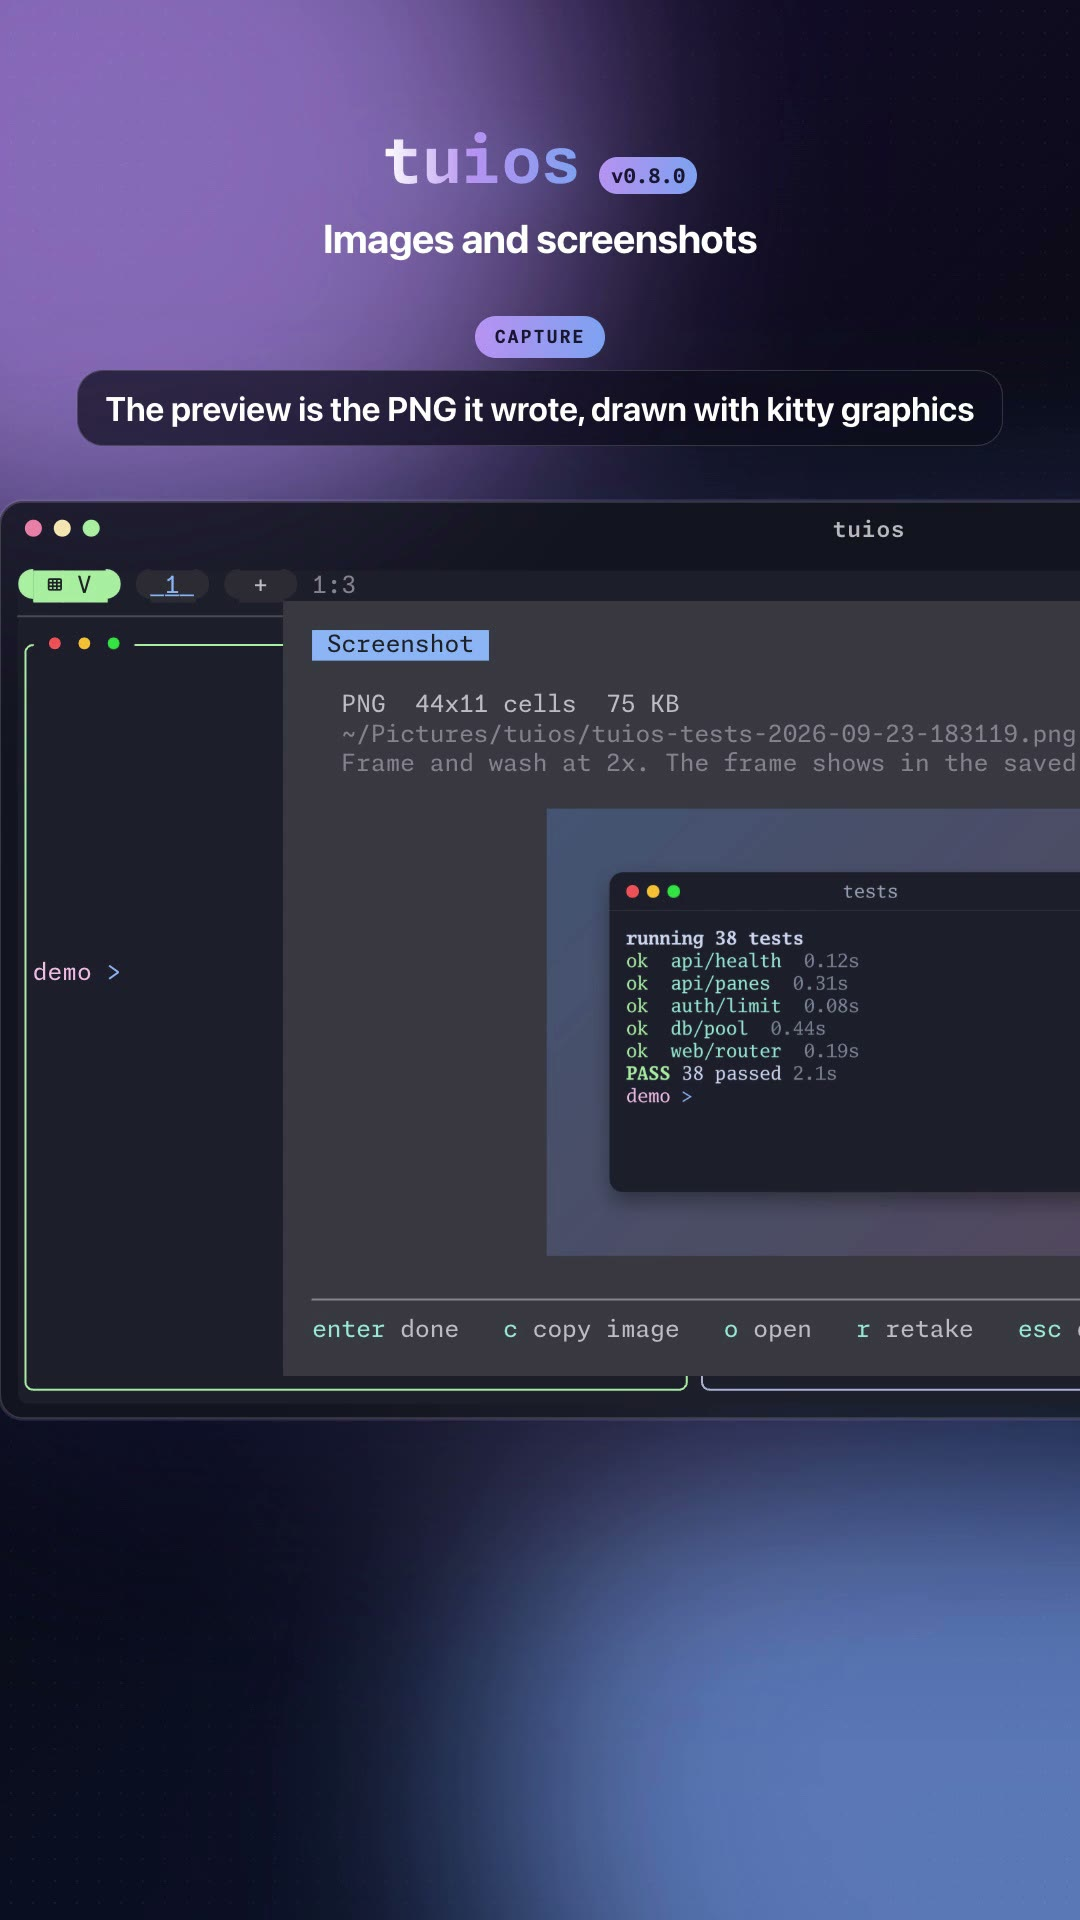
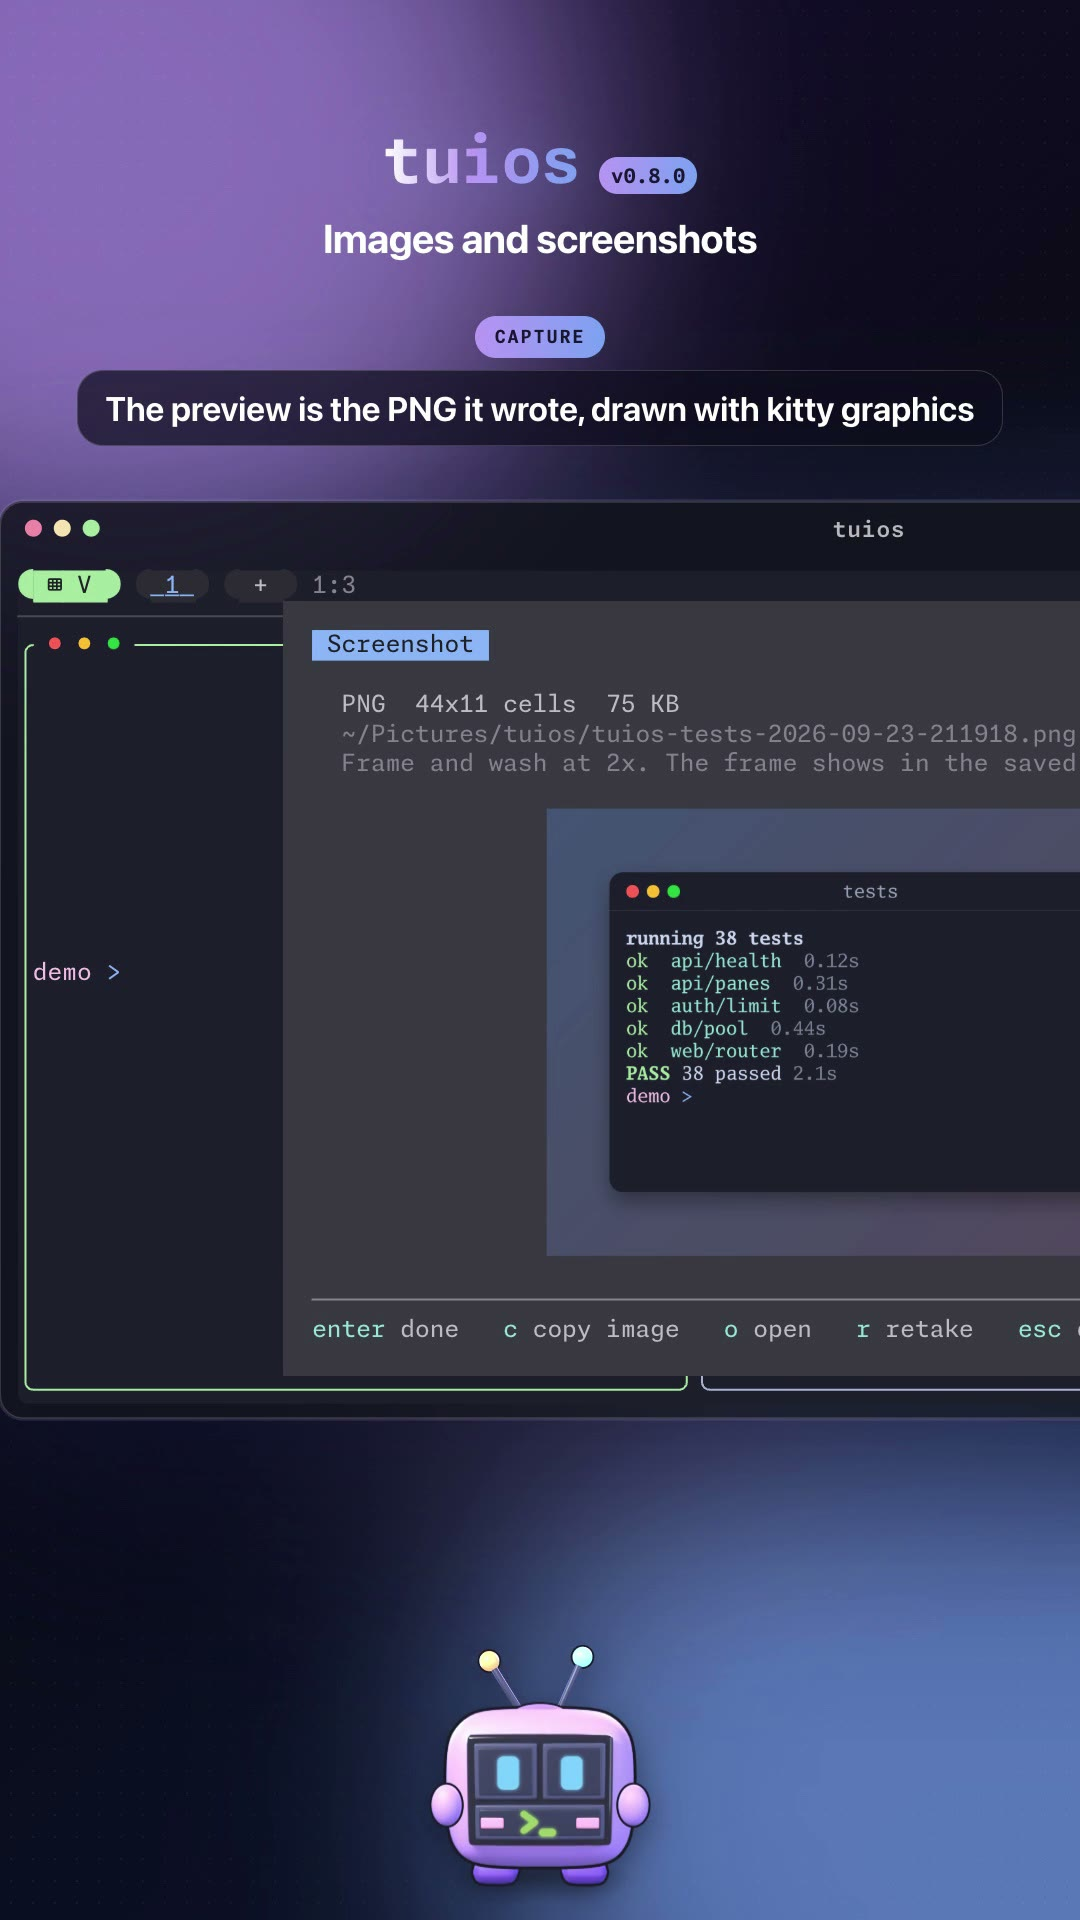
feat(releases): narrate the v0.8.0 clips with Tilly
Every v0.8.0 clip now has a voiceover by Tilly, the tuios mascot, who walks
in, points at the part of the screen each step is about, and talks with a
cursor mouth driven by the voice. The pauses in each take were lengthened
to fit the lines; tuios does the same things on screen. The voice is
Qwen3-TTS 1.7B, one designed reference cloned for every line, rendered and
checked locally, and mixed to -16 LUFS (AAC in the MP4s, Opus in the WebM).

ReleaseClip still autoplays muted, since browsers only allow that. A sound
button turns the narration on and starts the clip, and each clip has a
captions track (<clip>.vtt) with the spoken lines.

Changed region(s): [[0.3972, 0.8438, 0.6111, 1.0], [0.8556, 0.375, 0.9167, 0.4062]]

diff --git a/components/mdx/release-clip.tsx b/components/mdx/release-clip.tsx
@@ -1,6 +1,6 @@
 "use client";
 
-import { Pause, Play } from "lucide-react";
+import { Pause, Play, Volume2, VolumeX } from "lucide-react";
 import { useEffect, useId, useRef, useState } from "react";
 import { cn } from "@/lib/cn";
 
@@ -16,6 +16,9 @@ const NARROW = "(max-width: 639px)";
  *   is close to the viewport (preload none, sources attached on intersection).
  * - In view it plays muted and loops, like a GIF. Out of view it pauses, so a
  *   page of clips decodes one or two at a time.
+ * - The clips are narrated. The sound button turns the voice on (and starts
+ *   the clip); browsers only autoplay muted video, so it starts off. The
+ *   narration's captions are `src.vtt`, a track the reader can turn on.
  * - With prefers-reduced-motion it never starts by itself. The button starts
  *   it, and the button pauses it in every case, because moving content longer
  *   than five seconds needs a way to stop it.
@@ -46,7 +49,14 @@ export function ReleaseClip({
   const [reduced, setReduced] = useState(false);
   const [visible, setVisible] = useState(false);
   const [narrow, setNarrow] = useState(false);
+  const [sound, setSound] = useState(false);
   const stepsId = useId();
+
+  // React sets the muted attribute only on mount, so follow the state by hand.
+  useEffect(() => {
+    const video = videoRef.current;
+    if (video) video.muted = !sound;
+  }, [sound]);
 
   useEffect(() => {
     const query = window.matchMedia("(prefers-reduced-motion: reduce)");
@@ -129,6 +139,12 @@ export function ReleaseClip({
     setWanted(video.paused);
   };
 
+  const toggleSound = () => {
+    setNear(true);
+    if (!sound) setWanted(true);
+    setSound(!sound);
+  };
+
   return (
     <figure className="not-prose my-8">
       <div className="group relative overflow-hidden rounded-xl border border-fd-border bg-[#11111b] shadow-lg shadow-fd-primary/5">
@@ -153,6 +169,14 @@ export function ReleaseClip({
           {near && narrow ? (
             <source src={`${src}-vertical.mp4`} type="video/mp4" />
           ) : null}
+          {near ? (
+            <track
+              kind="captions"
+              src={`${src}.vtt`}
+              srcLang="en"
+              label="English"
+            />
+          ) : null}
           {near && !narrow ? (
             <>
               <source src={`${src}.webm`} type="video/webm" />
@@ -160,6 +184,26 @@ export function ReleaseClip({
             </>
           ) : null}
         </video>
+        <button
+          type="button"
+          onClick={toggleSound}
+          aria-label={`Narration sound: ${label}`}
+          aria-pressed={sound}
+          className={cn(
+            "absolute right-14 bottom-3 inline-flex size-9 items-center justify-center rounded-full",
+            "border border-white/15 bg-black/60 text-white backdrop-blur-sm transition-opacity",
+            "hover:bg-black/80 focus-visible:opacity-100 focus-visible:outline-2 focus-visible:outline-fd-primary focus-visible:outline-offset-2",
+            playing && !sound
+              ? "opacity-60 group-hover:opacity-100"
+              : "opacity-100",
+          )}
+        >
+          {sound ? (
+            <Volume2 className="size-4" aria-hidden="true" />
+          ) : (
+            <VolumeX className="size-4" aria-hidden="true" />
+          )}
+        </button>
         <button
           type="button"
           onClick={toggle}
